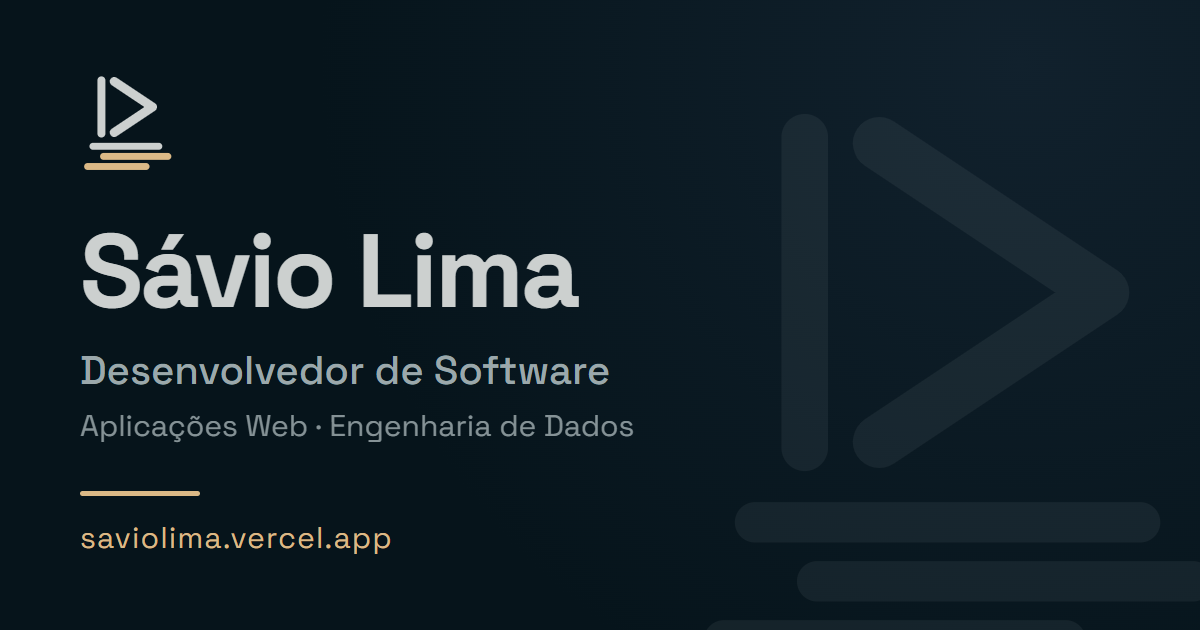
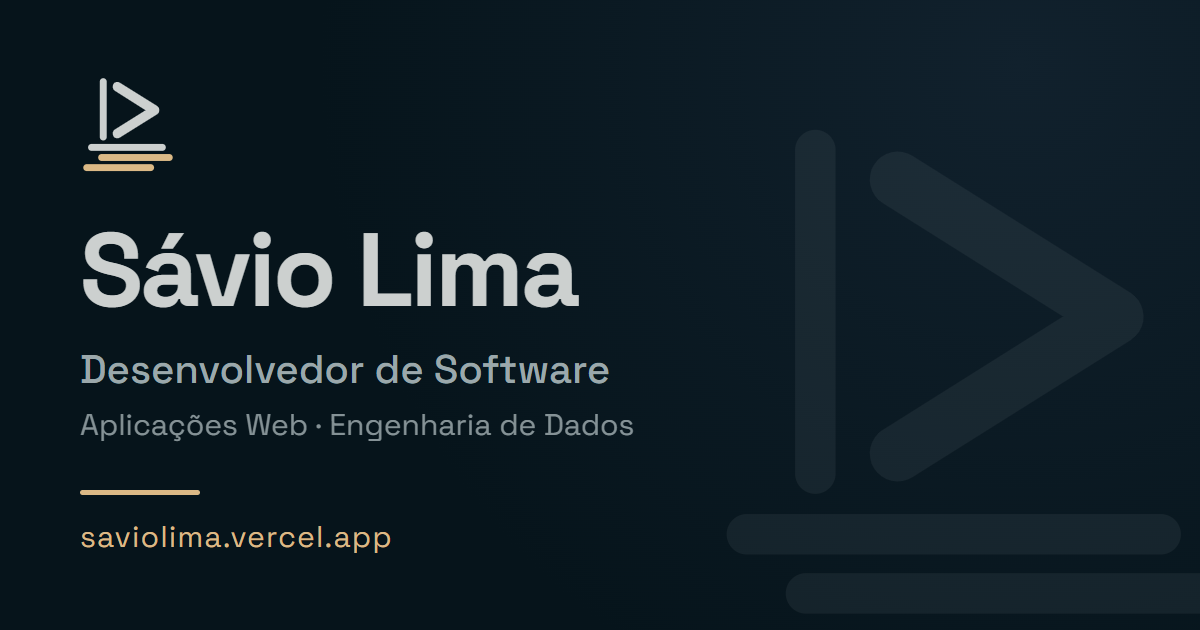
feat: refaz o símbolo com as medidas da prancha e troca o subtítulo para DEV (#20)
* feat: limita lista de projetos e remove card sem link

Na aba Todos, mostra 6 projetos (destaques primeiro) com botao
"Mostrar mais". Remove o card Phill Reboque, sem link publico.

* feat: adiciona galeria de telas ao Portal Educacional v2

Quatro prints do modo demonstracao (dados ficticios): painel, metas,
trajetoria e alertas.

* feat: marca Quadro e CalPre como prototipo

* feat: adiciona prints do Prisma Finance ao Dashboard Financeiro

Tela inicial em desktop e celular, capturada na conta demo (dados
ficticios).

* feat: renomeia Dashboard Financeiro para Prisma Finance

* refactor: aplica melhorias de prioridade alta da revisao

- Troca os benchmarks simulados (Math.random) por lista de tecnologias
- Converte logo e favicon de SVG vetorizado (143 KB) para WebP/PNG (~13 KB)
- Completa SEO: canonical, og:url, og:image:alt, twitter e theme-color
- Adiciona pagina 404 para rotas inexistentes

* feat: redesign do portfolio com a nova identidade visual

- Paleta da marca (Ink, Deep, Mid, Slate, Muted, Light, Areia) como
  variaveis CSS, no lugar do verde neon
- Fonte Space Grotesk; blocos de codigo seguem monoespacados
- Novo simbolo em SVG no cabecalho e na tela de boot, com lockup
  "Savio Lima / Software"
- Novo favicon, apple-touch-icon e imagem de previa (og-image)
- Menu com pagina ativa, selo de privacidade sem quebra e grade 2x2 em Sobre

* feat: aplica melhorias de prioridade media e corrige icone da aba
[…]

diff --git a/src/Components/Logo/index.tsx b/src/Components/Logo/index.tsx
@@ -17,8 +17,8 @@ export default function Logo({
   return (
     <svg
       width={size}
-      height={(size * 190) / 180}
-      viewBox="0 0 180 190"
+      height={(size * 186) / 180}
+      viewBox="0 0 180 186"
       fill="none"
       stroke="currentColor"
       strokeLinecap="round"
@@ -27,11 +27,11 @@ export default function Logo({
       focusable="false"
       {...rest}
     >
-      <path d="M40 12V112" strokeWidth="15" />
-      <path d="M64 14L136 62L64 110" strokeWidth="14" />
-      <path d="M24 136H148" strokeWidth="13" />
-      <path d="M44 155H165" strokeWidth="13" stroke={accent} />
-      <path d="M14 174H124" strokeWidth="13" stroke={accent} />
+      <path d="M43.5 12.5V116.5" strokeWidth="13" />
+      <path d="M70 22L140 66L70 110" strokeWidth="18" />
+      <path d="M21.5 136H154.5" strokeWidth="13" />
+      <path d="M40.5 155H167.5" strokeWidth="13" stroke={accent} />
+      <path d="M12.5 174H132.5" strokeWidth="13" stroke={accent} />
     </svg>
   );
 }

diff --git a/src/Components/Header/index.tsx b/src/Components/Header/index.tsx
@@ -8,7 +8,7 @@ export default function Header() {
         <Logo size={34} />
         <span className="wordmark">
           <strong>Sávio Lima</strong>
-          <small>Software</small>
+          <small>Dev</small>
         </span>
       </S.LogoLink>
       <S.Nav aria-label="Principal">

diff --git a/README.md b/README.md
@@ -19,6 +19,7 @@ src/
   data/         projects.ts (lista de projetos e tipos, exibida em /Projetos)
   Routes/       rotas e tela de boot
   Styles/       estilos globais
+marca/          símbolo em SVG (fundo claro e escuro) e ícone de app
 public/         favicons (svg, png, ico), apple-touch-icon e imagem de pré-visualização (og-image.png)
 ```
 
